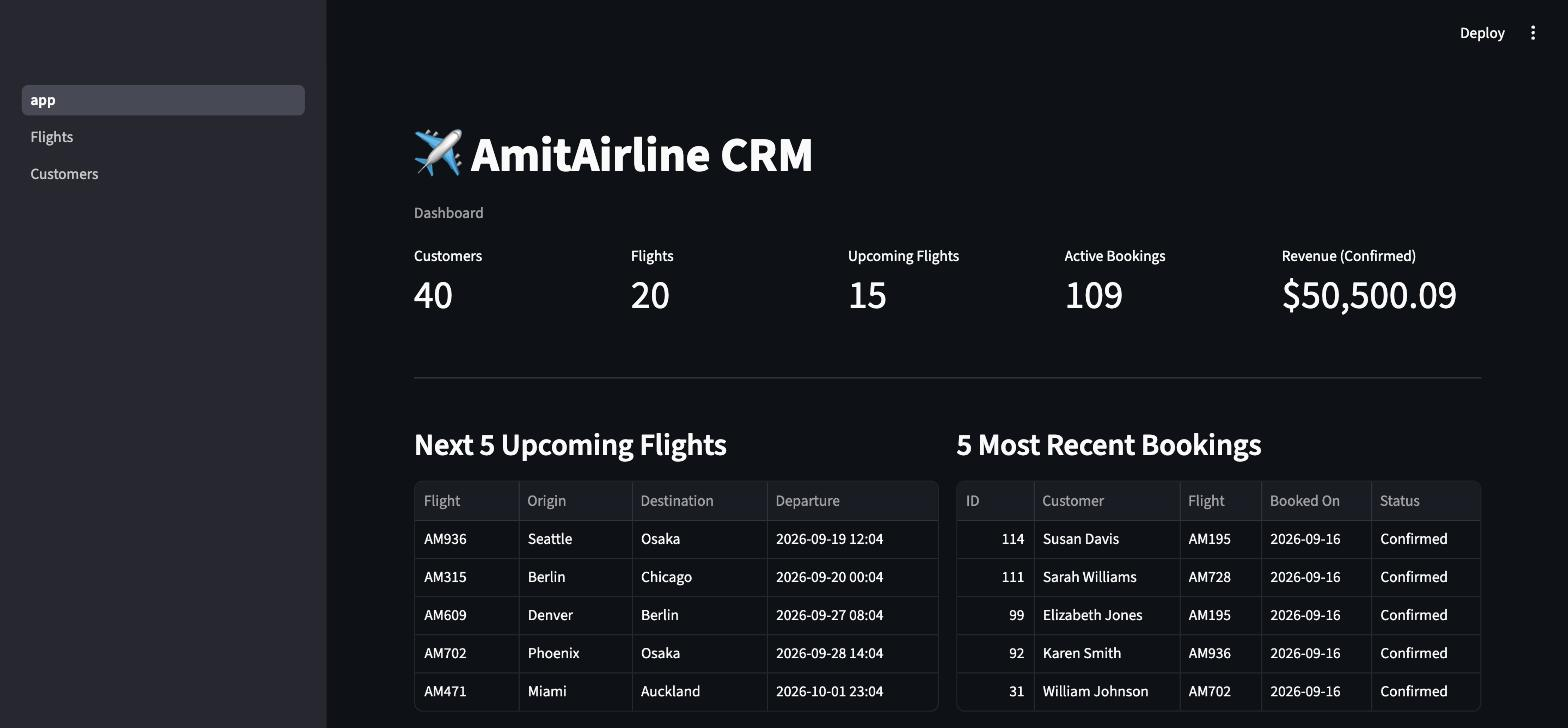
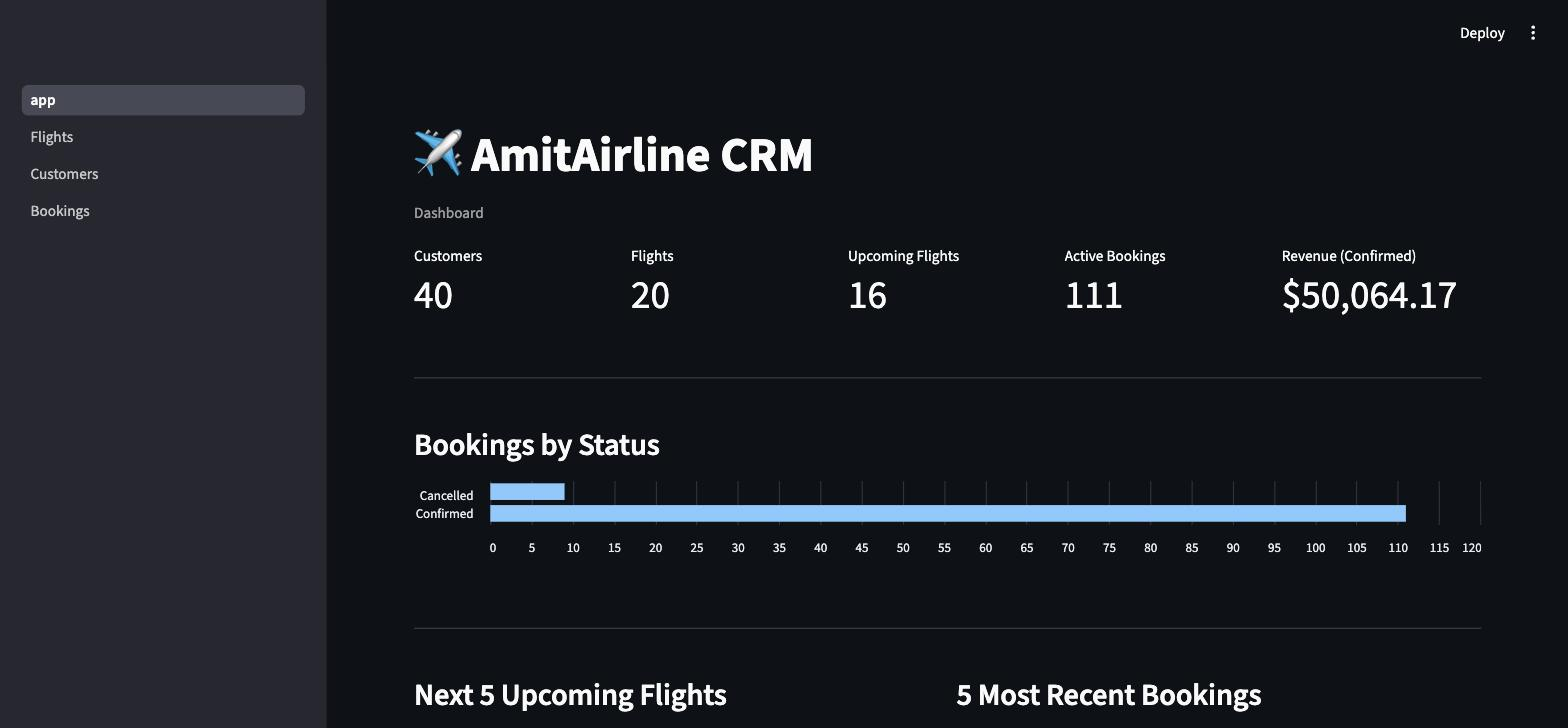
Phase 4 (final): polish + documentation wrap-up
Adds a "Bookings by Status" chart to the dashboard, currency formatting
for fares across all tables, and empty-state messages when a search
returns no results. Finalizes project docs (status marked complete) and
refreshes the README dashboard screenshot.

Verified with a full smoke test: deleted and regenerated airline.db, ran
the app fresh, and clicked through Dashboard -> Flights -> Customers ->
Bookings end to end with no errors.

This completes all 4 planned phases.

Claude-Session: https://claude.ai/code/session_01Tcc31uYapUxZrR3mnpcgvi

diff --git a/pages/1_Flights.py b/pages/1_Flights.py
@@ -38,28 +38,32 @@ df = pd.read_sql_query(query, conn, params=params)
 
 st.write(f"{len(df)} flight(s) found")
 
-df_display = df.drop(columns=["flight_id"]).rename(
-    columns={
-        "flight_number": "Flight",
-        "origin": "Origin",
-        "destination": "Destination",
-        "departure_time": "Departure",
-        "arrival_time": "Arrival",
-        "aircraft": "Aircraft",
-        "capacity": "Capacity",
-    }
-)
+if df.empty:
+    st.info("No flights match your search.")
+    selected_rows = []
+else:
+    df_display = df.drop(columns=["flight_id"]).rename(
+        columns={
+            "flight_number": "Flight",
+            "origin": "Origin",
+            "destination": "Destination",
+            "departure_time": "Departure",
+            "arrival_time": "Arrival",
+            "aircraft": "Aircraft",
+            "capacity": "Capacity",
+        }
+    )
 
-event = st.dataframe(
-    df_display,
-    hide_index=True,
-    on_select="rerun",
-    selection_mode="single-row",
-)
+    event = st.dataframe(
+        df_display,
+        hide_index=True,
+        on_select="rerun",
+        selection_mode="single-row",
+    )
+    selected_rows = event.selection.rows if event and event.selection else []
 
 st.divider()
 
-selected_rows = event.selection.rows if event and event.selection else []
 if selected_rows:
     flight = df.iloc[selected_rows[0]]
     st.subheader(
@@ -81,7 +85,11 @@ if selected_rows:
     if manifest.empty:
         st.info("No confirmed passengers for this flight yet.")
     else:
-        st.dataframe(manifest, hide_index=True)
+        st.dataframe(
+            manifest,
+            hide_index=True,
+            column_config={"Fare": st.column_config.NumberColumn(format="$%.2f")},
+        )
 else:
     st.info("Select a flight above to see its passenger manifest.")
 

diff --git a/pages/2_Customers.py b/pages/2_Customers.py
@@ -59,27 +59,31 @@ df = pd.read_sql_query(query, conn, params=params).fillna("")
 
 st.write(f"{len(df)} customer(s) found")
 
-df_display = df.drop(columns=["customer_id"]).rename(
-    columns={
-        "first_name": "First Name",
-        "last_name": "Last Name",
-        "email": "Email",
-        "phone": "Phone",
-        "city": "City",
-        "created_at": "Registered",
-    }
-)
+if df.empty:
+    st.info("No customers match your search.")
+    selected_rows = []
+else:
+    df_display = df.drop(columns=["customer_id"]).rename(
+        columns={
+            "first_name": "First Name",
+            "last_name": "Last Name",
+            "email": "Email",
+            "phone": "Phone",
+            "city": "City",
+            "created_at": "Registered",
+        }
+    )
 
-event = st.dataframe(
-    df_display,
-    hide_index=True,
-    on_select="rerun",
-    selection_mode="single-row",
-)
+    event = st.dataframe(
+        df_display,
+        hide_index=True,
+        on_select="rerun",
+        selection_mode="single-row",
+    )
+    selected_rows = event.selection.rows if event and event.selection else []
 
 st.divider()
 
-selected_rows = event.selection.rows if event and event.selection else []
 if selected_rows:
     customer = df.iloc[selected_rows[0]]
     st.subheader(f"Booking History — {customer['first_name']} {customer['last_name']}")
@@ -99,7 +103,11 @@ if selected_rows:
     if history.empty:
         st.info("This customer has no bookings yet.")
     else:
-        st.dataframe(history, hide_index=True)
+        st.dataframe(
+            history,
+            hide_index=True,
+            column_config={"Fare": st.column_config.NumberColumn(format="$%.2f")},
+        )
 else:
     st.info("Select a customer above to see their booking history.")
 

diff --git a/pages/3_Bookings.py b/pages/3_Bookings.py
@@ -86,29 +86,34 @@ query += " ORDER BY b.booking_date DESC, b.booking_id DESC"
 df = pd.read_sql_query(query, conn, params=params).fillna("")
 st.write(f"{len(df)} booking(s) found")
 
-df_display = df.rename(
-    columns={
-        "booking_id": "ID",
-        "customer_name": "Customer",
-        "flight_number": "Flight",
-        "origin": "Origin",
-        "destination": "Destination",
-        "departure_time": "Departure",
-        "seat": "Seat",
-        "fare": "Fare",
-        "status": "Status",
-        "booking_date": "Booked On",
-    }
-)
+if df.empty:
+    st.info("No bookings match your filters.")
+    selected_rows = []
+else:
+    df_display = df.rename(
+        columns={
+            "booking_id": "ID",
+            "customer_name": "Customer",
+            "flight_number": "Flight",
+            "origin": "Origin",
+            "destination": "Destination",
+            "departure_time": "Departure",
+            "seat": "Seat",
+            "fare": "Fare",
+            "status": "Status",
+            "booking_date": "Booked On",
+        }
+    )
 
-event = st.dataframe(
-    df_display,
-    hide_index=True,
-    on_select="rerun",
-    selection_mode="single-row",
-)
+    event = st.dataframe(
+        df_display,
+        hide_index=True,
+        on_select="rerun",
+        selection_mode="single-row",
+        column_config={"Fare": st.column_config.NumberColumn(format="$%.2f")},
+    )
+    selected_rows = event.selection.rows if event and event.selection else []
 
-selected_rows = event.selection.rows if event and event.selection else []
 if selected_rows:
     booking = df.iloc[selected_rows[0]]
     st.write(

diff --git a/app.py b/app.py
@@ -38,6 +38,15 @@ col5.metric("Revenue (Confirmed)", f"${total_revenue:,.2f}")
 
 st.divider()
 
+status_counts = pd.read_sql_query(
+    "SELECT status AS Status, COUNT(*) AS Bookings FROM bookings GROUP BY status",
+    conn,
+).set_index("Status")
+if not status_counts.empty:
+    st.subheader("Bookings by Status")
+    st.bar_chart(status_counts, horizontal=True)
+    st.divider()
+
 left, right = st.columns(2)
 
 with left:

diff --git a/docs/02 - Dev Log.md b/docs/02 - Dev Log.md
@@ -72,3 +72,28 @@ Tested (in a running browser session):
   (not committed to git anyway — it's gitignored).
 
 Next: Phase 4 — polish + documentation wrap-up.
+
+## 2026-09-16 — Phase 4: Polish + documentation wrap-up (final)
+
+Built:
+- Added a "Bookings by Status" bar chart to the dashboard (`app.py`).
+- Added empty-state messages ("No flights/customers/bookings match your
+  search") on Flights, Customers, and Bookings when a search/filter returns
+  zero rows, instead of just an empty table.
+- Formatted `Fare` as currency (`$%.2f`) via `st.column_config.NumberColumn`
+  in the flight manifest, customer booking history, and existing bookings
+  tables.
+
+Tested:
+- Deleted `airline.db`, regenerated it with `generate_data.py`, and ran the
+  app fresh (`streamlit run app.py`).
+- Clicked through Dashboard → Flights → Customers → Bookings end to end:
+  verified the new chart renders, currency formatting displays correctly
+  (e.g. "$643.89"), and searching for a nonexistent flight/customer/booking
+  shows the new empty-state message instead of an empty table.
+- No errors in the Streamlit server log during the full smoke test.
+
+This closes out all 4 phases. The app is feature-complete for its scope:
+dashboard, flight search + manifest, customer search + history + add,
+booking create/cancel. Documented non-goals (no auth, no overbooking/seat
+checks, no multi-leg itineraries) remain intentional and unchanged.

diff --git a/README.md b/README.md
@@ -6,11 +6,8 @@ bookings (create / cancel) — all backed by hand-rolled synthetic data.
 
 No authentication — single-user, local tool.
 
-**Status**: work in progress, built in phases — see
-[`docs/02 - Dev Log.md`](docs/02%20-%20Dev%20Log.md). Phases 1-3 are done
-(schema, synthetic data, dashboard/flights/customers views, and booking
-management — create/cancel bookings, add customers); polish + docs
-wrap-up (Phase 4) is next.
+**Status**: complete — built in 4 phases, see
+[`docs/02 - Dev Log.md`](docs/02%20-%20Dev%20Log.md) for the full history.
 
 ![Dashboard screenshot](docs/screenshots/dashboard.jpg)
 

diff --git a/docs/01 - Architecture.md b/docs/01 - Architecture.md
@@ -76,7 +76,8 @@ joins through bookings.
 ## Pages (Streamlit `pages/` auto-discovery)
 
 - `app.py` — dashboard: totals, upcoming flights, active bookings, revenue,
-  small "next 5 upcoming flights" / "5 most recent bookings" tables.
+  a "Bookings by Status" bar chart, and small "next 5 upcoming flights" /
+  "5 most recent bookings" tables.
 - `pages/1_Flights.py` — search/filter flights, select a row to see its
   passenger manifest (Confirmed bookings joined with customers).
 - `pages/2_Customers.py` — search customers, select a row to see booking

diff --git a/docs/00 - Project Hub.md b/docs/00 - Project Hub.md
@@ -1,6 +1,6 @@
 # AmitAirline CRM — Project Hub
 
-**Status**: Phase 3 complete (booking management)
+**Status**: Complete — all 4 phases done.
 
 ## Goal
 
@@ -39,4 +39,4 @@ guardrails (overbooking, seat collisions, etc. are explicitly out of scope).
 1. Scaffolding, schema, synthetic data generator — **done**
 2. Read-only Streamlit skeleton (dashboard, flights, customers) — **done**
 3. Booking management (create/cancel bookings, add customers) — **done**
-4. Polish + documentation wrap-up
+4. Polish + documentation wrap-up — **done**
